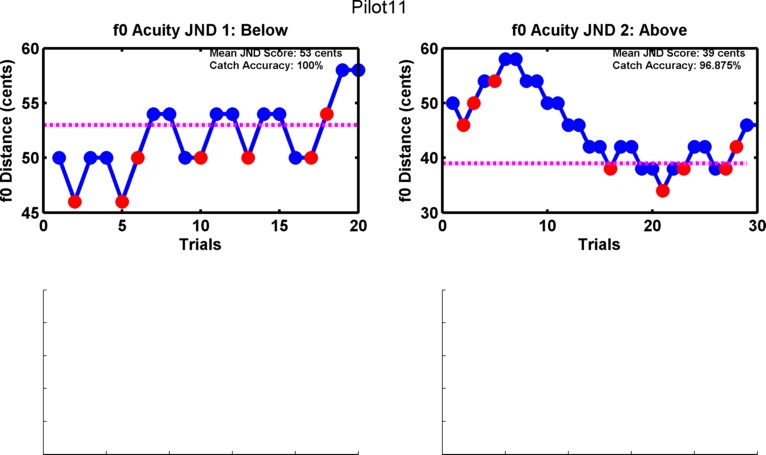
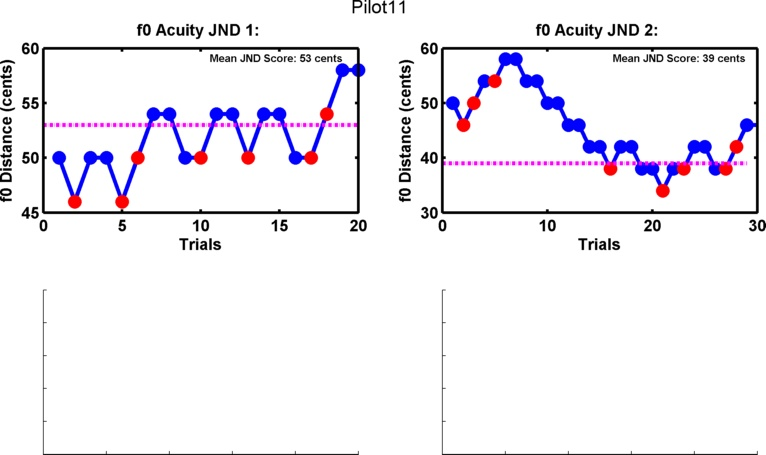
just a bit of cleanup
just some quick cleanup to make future analyis go a little smoother and
quicker

Changed region(s): [[0.6606, 0.0308, 0.9909, 0.1538], [0.1501, 0.0308, 0.4504, 0.1538]]

diff --git a/Analysis/dfAnalysisJND.m b/Analysis/dfAnalysisJND.m
@@ -1,8 +1,8 @@
 function dfAnalysisJND()
 
 JNDa.project      = 'Dissociating-Role-of-Feedback-in-Voice-Motor-Control';
-JNDa.participant  = 'Pilot10'; %List of multiple participants.
-runs2Analyze      = 1:4;
+JNDa.participant  = 'Pilot11'; %List of multiple participants.
+runs2Analyze      = 1:2;
 
 dirs = dfDirs(JNDa.project);
 dirs.SavResultsDir = fullfile(dirs.Results, JNDa.participant, 'JND'); %Where to save results
@@ -15,7 +15,7 @@ allRunData = [];
 allmeanJND = [];
 allCatchAcc = [];
 for ii = runs2Analyze 
-    JNDa.run         = ['fA' num2str(ii)];
+    JNDa.run         = ['fAC' num2str(ii)];
     
     dirs.SavFileDir  = fullfile(dirs.SavData, JNDa.participant, JNDa.run, [JNDa.participant JNDa.run 'DRF.mat']); %Where to find data
     
@@ -51,7 +51,7 @@ if ~isfield(UD, 'JNDDirection')
         else
             UD.JNDDirection = 'Below';
         end
-    else
+    elseif strcmp(JNDa.participant, 'Pilot10')
         if ii == 2 || ii == 4
             UD.JNDDirection = 'Above';
         else

diff --git a/Analysis/drawJNDResults.m b/Analysis/drawJNDResults.m
@@ -7,8 +7,8 @@ plotdim = [840 525];
 xyFS    = 12;
 titleFS = 12;
 
-annoPos = [.29 .78;
-           .77 .78;
+annoPos = [.29 .77;
+           .77 .77;
            .29 .31;
            .77 .31]; 
 
@@ -23,8 +23,10 @@ for ii = runs2Analyze
     catchAccu = allCatchAcc(ii);
     if isfield(UD, 'JNDDirection')
         note = UD.JNDDirection;
+        anno2 = ['Catch Accuracy: ' num2str(catchAccu) '%'];
     else
         note = [];
+        anno2 = [];
     end
     
     axes(ha(ii))
@@ -39,7 +41,7 @@ for ii = runs2Analyze
     
     t = annotation('textbox',[annoPos(ii,1) annoPos(ii,2) 0.45 0.1],...
                    'string', {['Mean JND Score: ' num2str(meanJND) ' cents'];...
-                              ['Catch Accuracy: ' num2str(catchAccu) '%']},...
+                                                  anno2},...
                     'LineStyle','none',...
                     'FontWeight','bold',...
                     'FontSize',8,...
